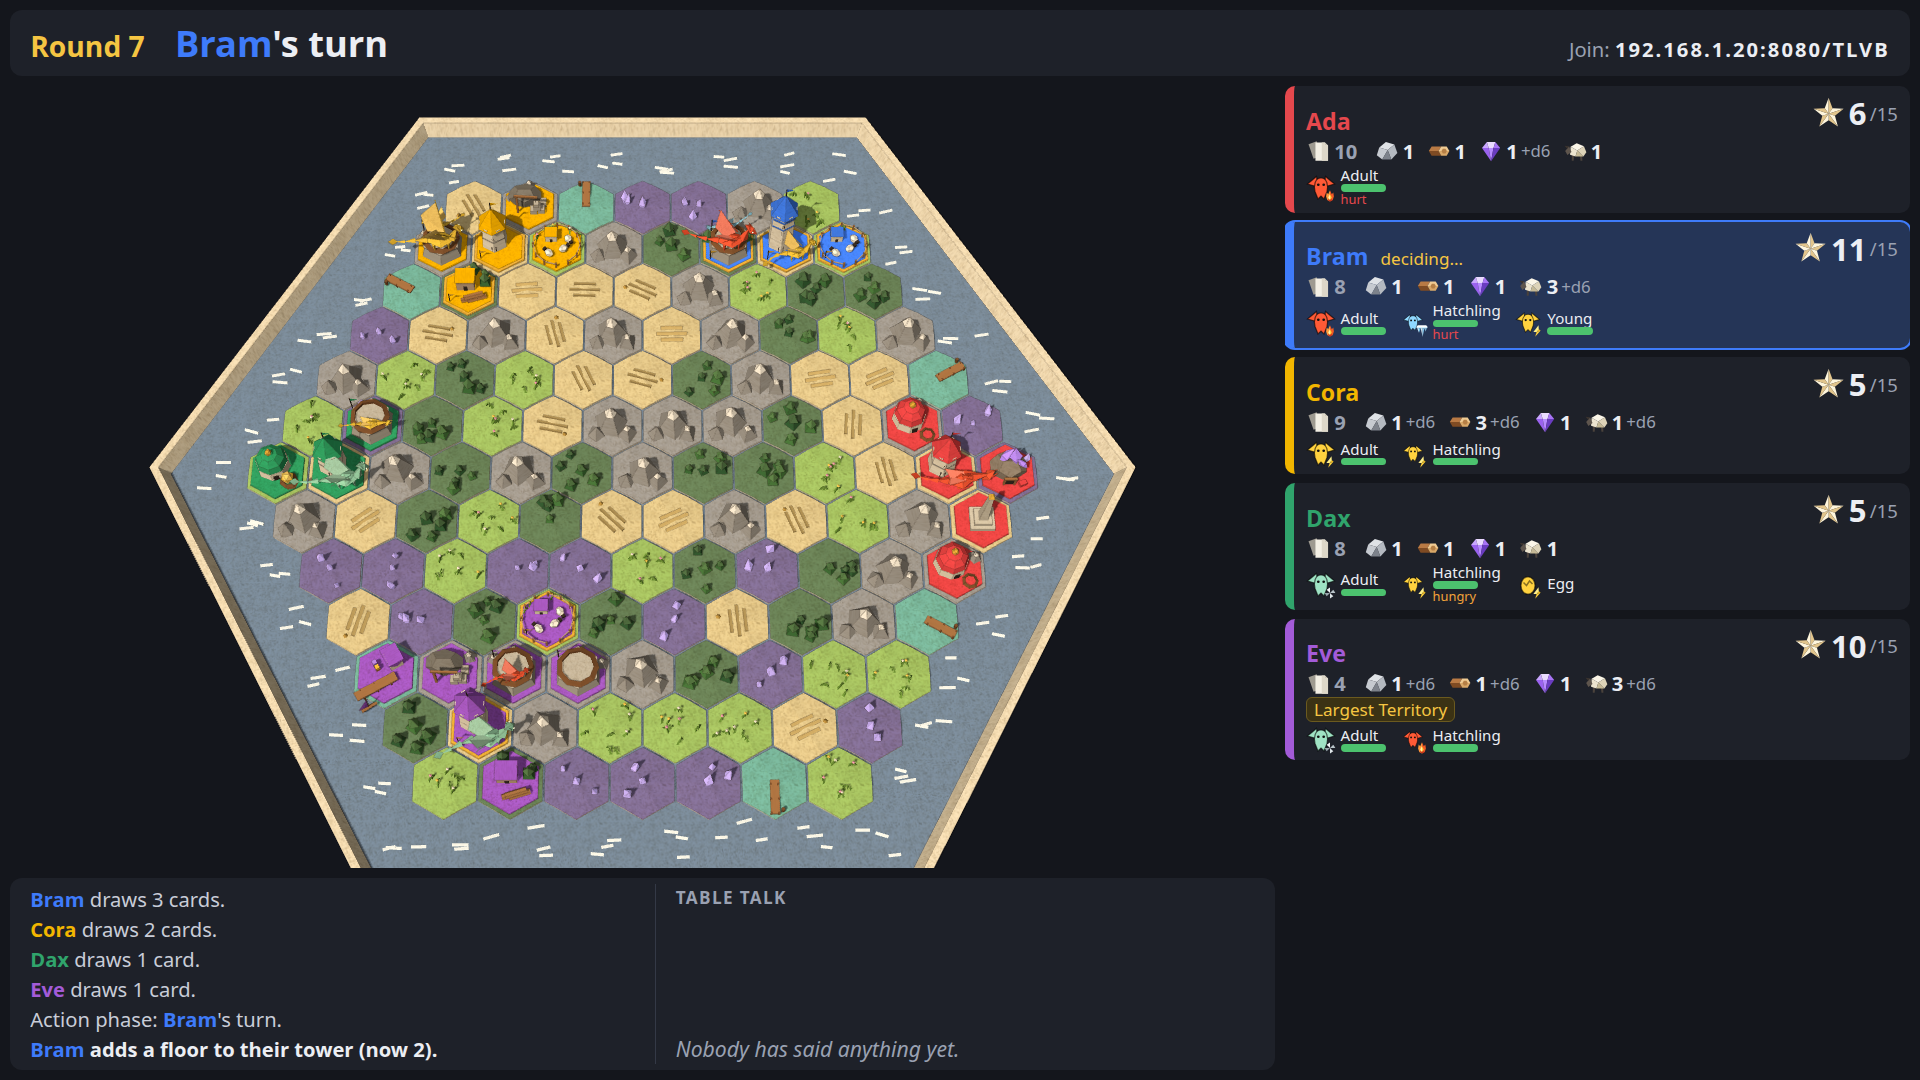
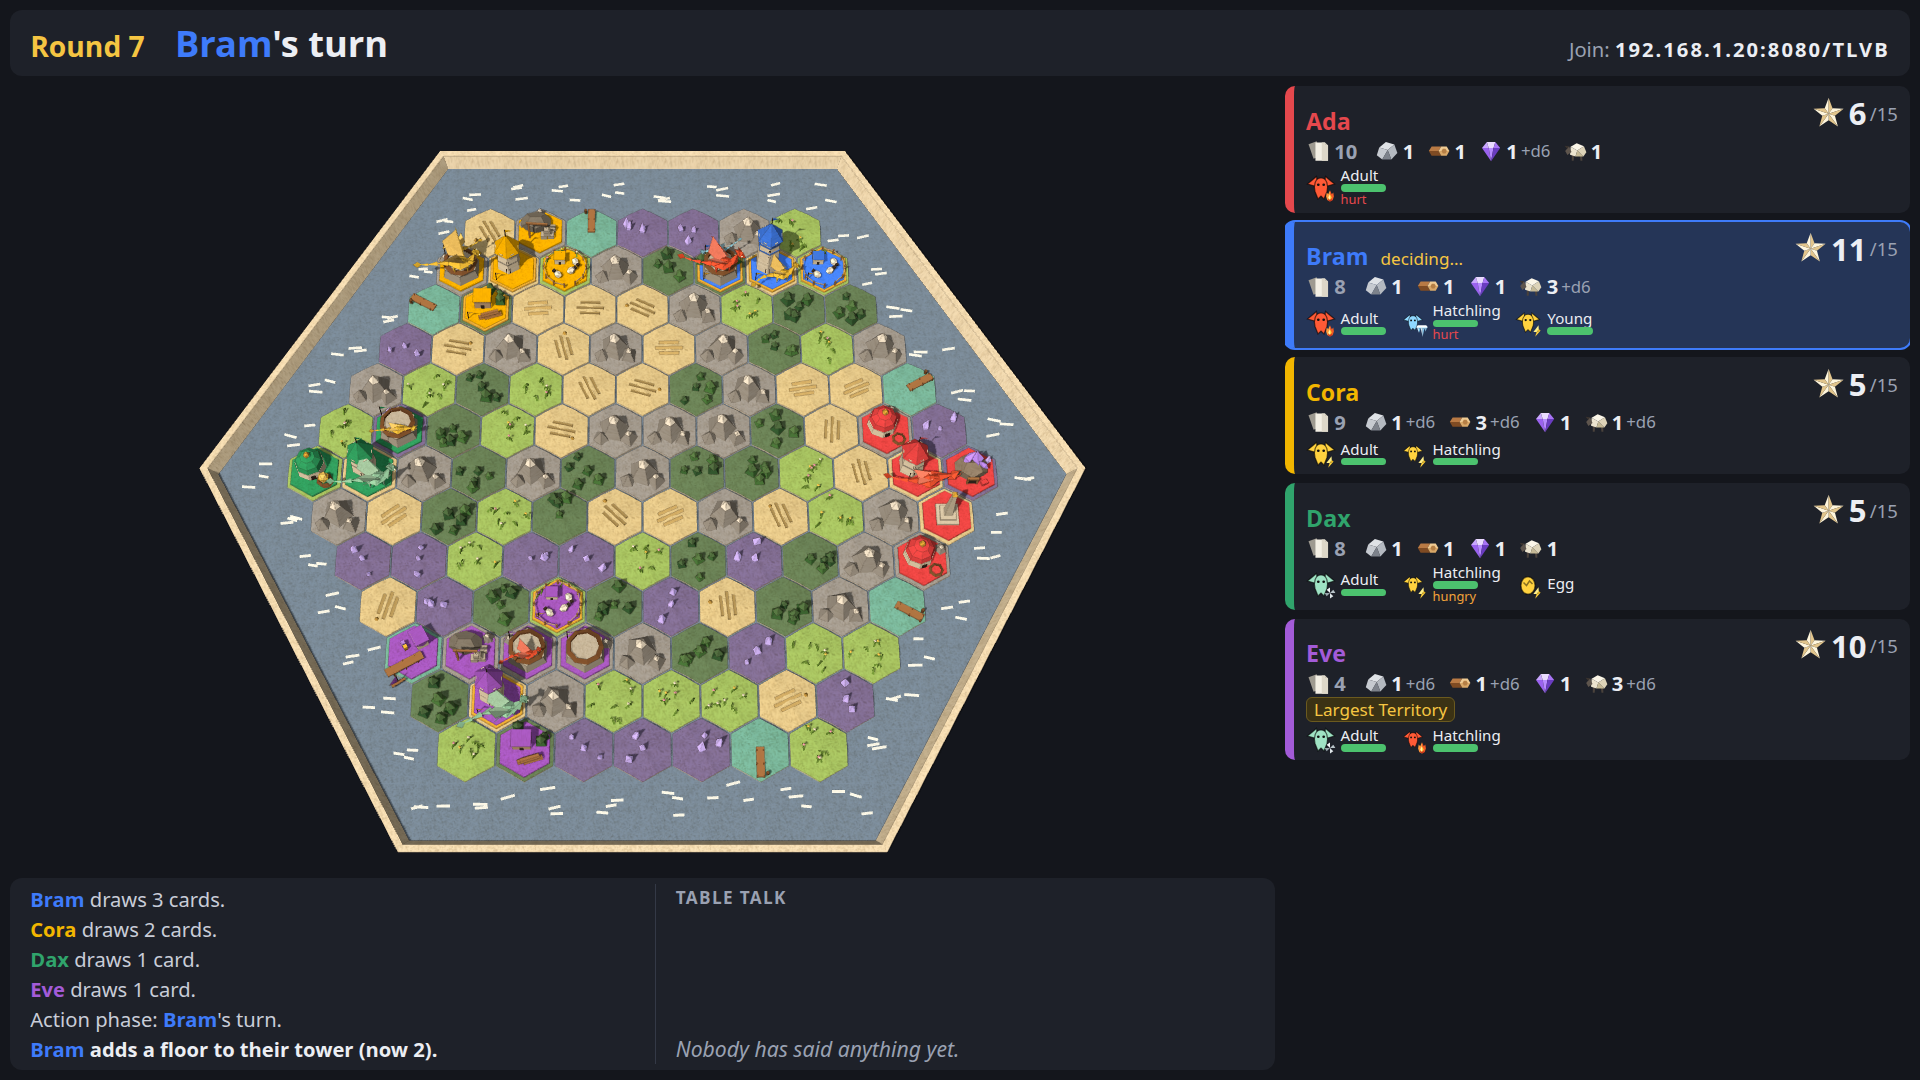
3D board: keep the whole tray in view, not cropped by the log panel
Claude-Session: https://claude.ai/code/session_01MEmTqGsa5dHtZhTfn355TS

Changed region(s): [[0.0625, 0.0917, 0.5938, 0.825]]

diff --git a/web/board3d.ts b/web/board3d.ts
@@ -946,6 +946,8 @@ export class Board3D {
       const a = (Math.PI / 3) * i;
       return new THREE.Vector3(center.x + Math.cos(a) * (far + 1.35), 0, center.z + Math.sin(a) * (far + 1.35));
     });
+    // The whole tray stays in view, so the board looks placed on the table, not cropped.
+    this.fitPoints.push(...corners);
     const tray = trayGeometry(corners.map((c) => c.clone().sub(new THREE.Vector3(center.x, 0, center.z))), 0.45, 0.25);
     // Its floor is the sea, the land pasted on it; a map without an ocean gets plain paper.
     const sea = map.some((h) => h.terrain === 'ocean');
